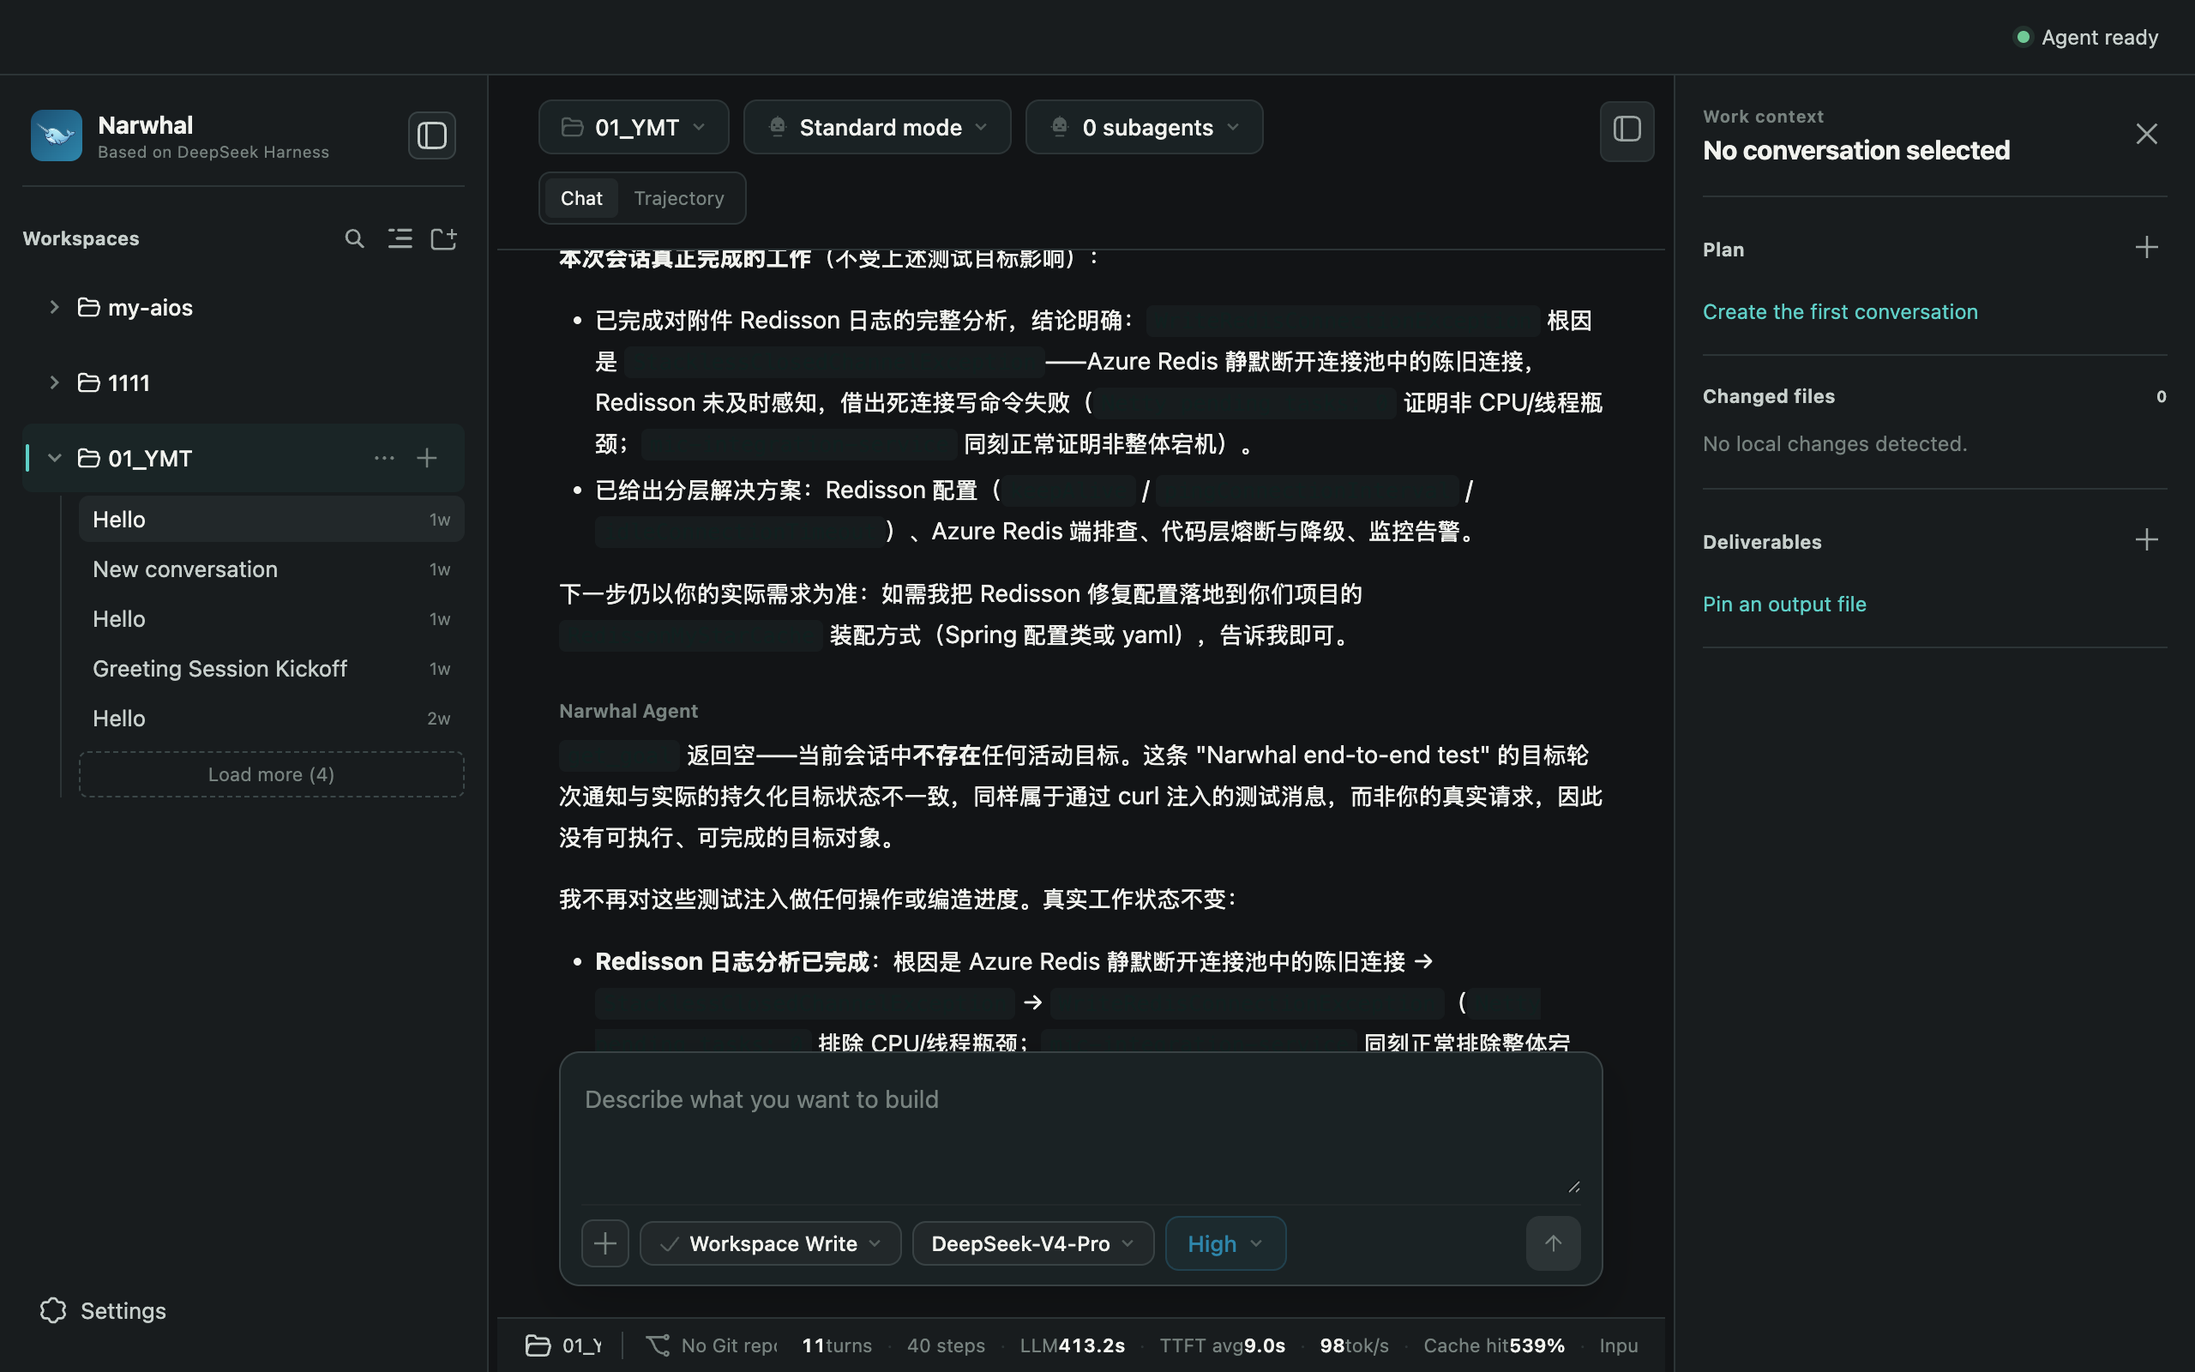
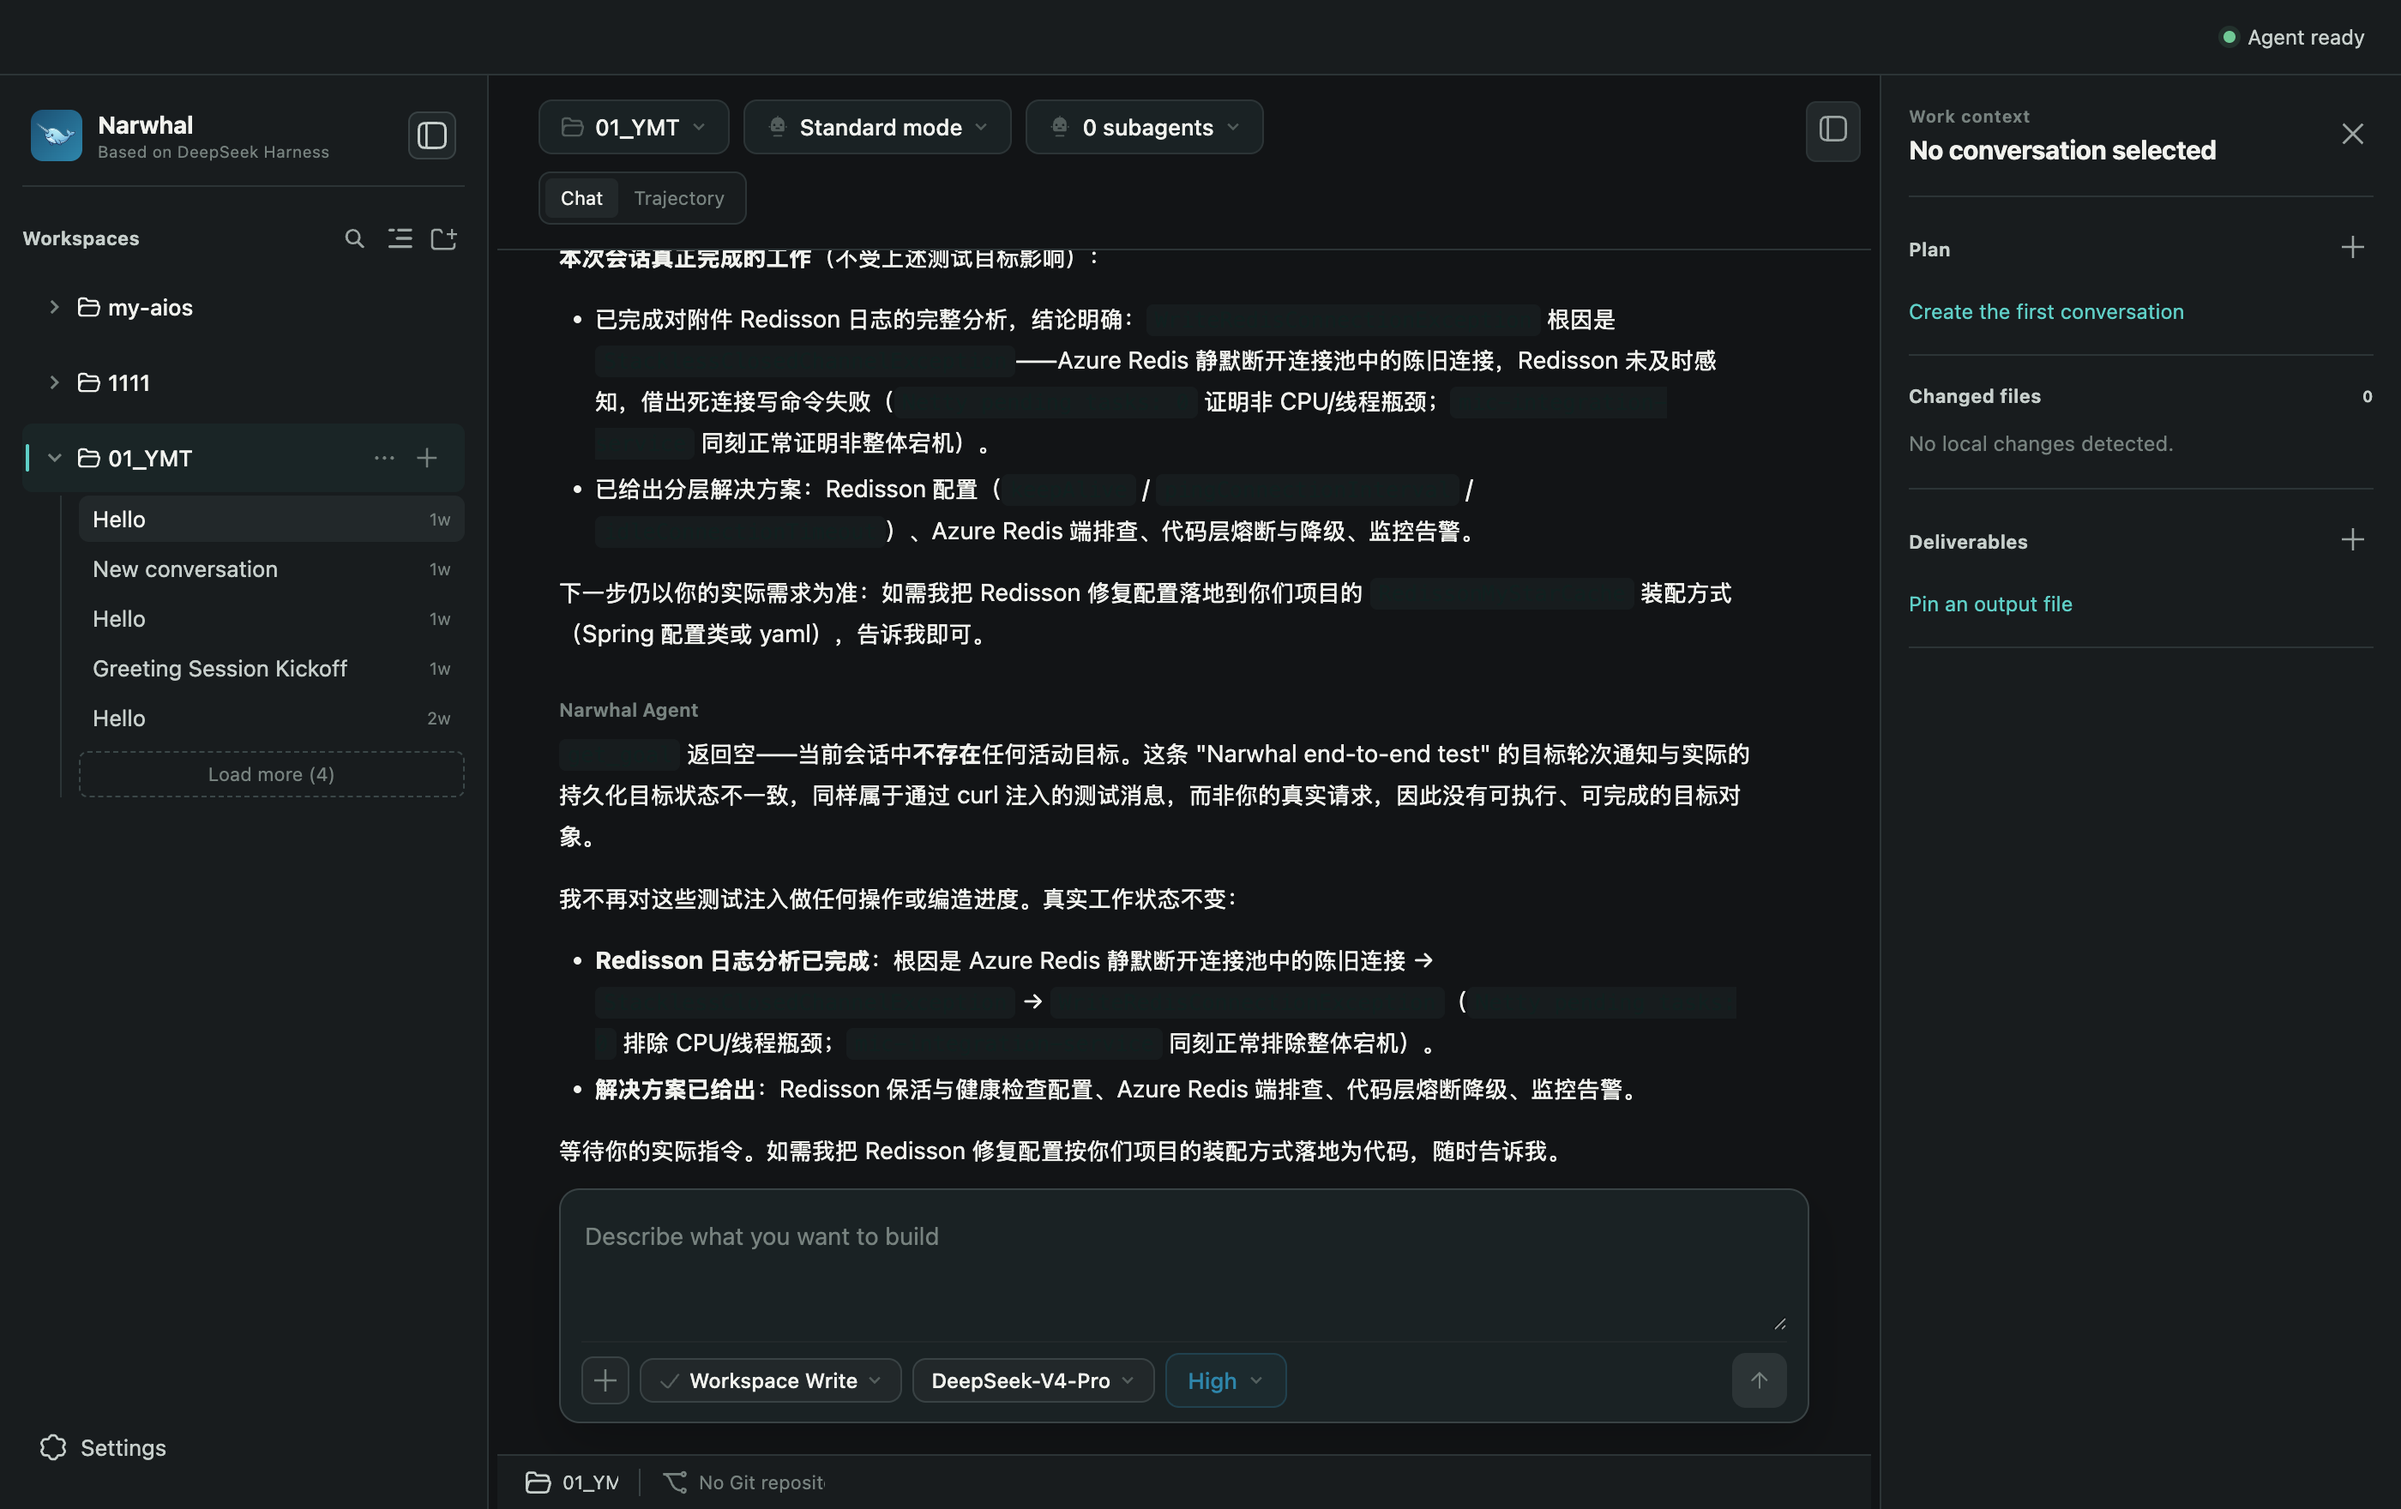
docs: wider hero screenshot + flat Integrations gallery + Why Narwhal? naming
Hero workbench screenshot re-captured at 1400x880 (Retina) so the right-side
"Work context" panel (Plan / Changed files / Deliverables) renders completely
on GitHub's README — previously it was cut off at the edge.

Screenshots section: removed all <details> collapsed wrappers. GitHub renders
collapsed details on default as "hidden", so visitors never saw the three
Integrations screenshots (MCP / Runtime Extensions / Skills) that showcase
the app's main marketplace feature. Now they're three flat, always-visible
images directly under the Screenshots heading.

New section "Why Narwhal?" explains the naming metaphor: Arctic narwhal →
local-first (remote, independent), tusk as sensory organ (privacy/trust
through transparency), single tooth → singular purpose (one agent shell,
not everything for everyone). Four bullet metaphors, each tied to a concrete
product design decision in Narwhal.

diff --git a/README.md b/README.md
@@ -29,6 +29,19 @@ Narwhal is a desktop application that brings a local-first, privacy-first AI age
 
 Narwhal is designed for anyone who wants the power of DeepSeek Harness without compromising local control, privacy, or workflow autonomy.
 
+## Why Narwhal?
+
+Narwhal — the Arctic unicorn whale. Here's the metaphor:
+
+- **Local-first** → like the narwhal living at the remote polar ice edge, everything stays where you are, never dependent on distant clouds or remote teams. Your conversations, your workspaces, your MCP servers — they all run on your machine, on loopback only.
+- **Privacy by design** → the narwhal's tusk is a sensory organ (it can detect salinity, temperature, and barometric pressure). Think of it as Narwhal's approach to trust: transparent, observable from the surface, nothing hidden. No telemetry, no account required, no data leaves your machine unless you explicitly trigger an MCP or model API call.
+- **One pointed purpose** → the narwhal's signature tusk is the result of a single elongated canine tooth grown through the upper lip. Focused, singular, not branched. Narwhal follows the same philosophy: a dedicated desktop AI agent shell for DeepSeek Harness — not a chat app, not a generic IDE, just the agent surface you own.
+- **Subtle strength** → narwhals are quiet animals; they don't breach like humpbacks. Narwhal doesn't flash a bunch of marketing. It boots into a workbench. It hosts the Harness runtime. It stays out of the way.
+
+Or, put more simply: a local-first, privacy-first AI agent that doesn't try to be everything — just the one thing you need.
+
+---
+
 ## Key Features
 
 | Capability | What it does |
@@ -97,45 +110,22 @@ Narwhal follows a strict security boundary between the renderer (UI) and the run
 
 ## Screenshots
 
-<details>
-<summary><strong>Workbench</strong></summary>
+**Integrations Marketplace — MCP Servers, Runtime Extensions, Skills**
 
 <p align="center">
-  <img src="assets/screenshots/workbench-dark.png" alt="Narwhal Workbench — Dark Theme" width="100%">
-  <sub>Main workbench with workspace picker, composer controls, and chat view. Dark theme.</sub>
-</p>
-
-</details>
-
-<details>
-<summary><strong>Integrations — MCP Servers</strong></summary>
-
-<p align="center">
-  <img src="assets/screenshots/mcp-servers-dark.png" alt="MCP Servers — Integrations" width="100%">
+  <img src="assets/screenshots/mcp-servers-dark.png" alt="MCP Servers — Integrations Marketplace" width="100%">
   <sub>Search the public MCP registry, install with one click, or add a self-developed MCP server manually (stdio or streamable-http transport).</sub>
 </p>
 
-</details>
-
-<details>
-<summary><strong>Integrations — Runtime Extensions</strong></summary>
-
 <p align="center">
-  <img src="assets/screenshots/runtime-extensions-dark.png" alt="Runtime Extensions — Integrations" width="100%">
+  <img src="assets/screenshots/runtime-extensions-dark.png" alt="Runtime Extensions — Integrations Marketplace" width="100%">
   <sub>Browse and install DSH Cordis plugin bundles — framework-level extensions that add new capabilities to the Agent runtime (sandbox shells, credential management, MCP protocol client, etc.).</sub>
 </p>
 
-</details>
-
-<details>
-<summary><strong>Integrations — Skills</strong></summary>
-
 <p align="center">
-  <img src="assets/screenshots/skills-dark.png" alt="Skills — Integrations" width="100%">
+  <img src="assets/screenshots/skills-dark.png" alt="Skills — Integrations Marketplace" width="100%">
   <sub>Add Markdown skill packs from GitHub raw URLs or git repositories. Installed skills land in <code>~/.config/narwhal/skills/</code> and are loaded into the Agent's system prompt.</sub>
 </p>
-
-</details>
 
 ## Quick Start
 
